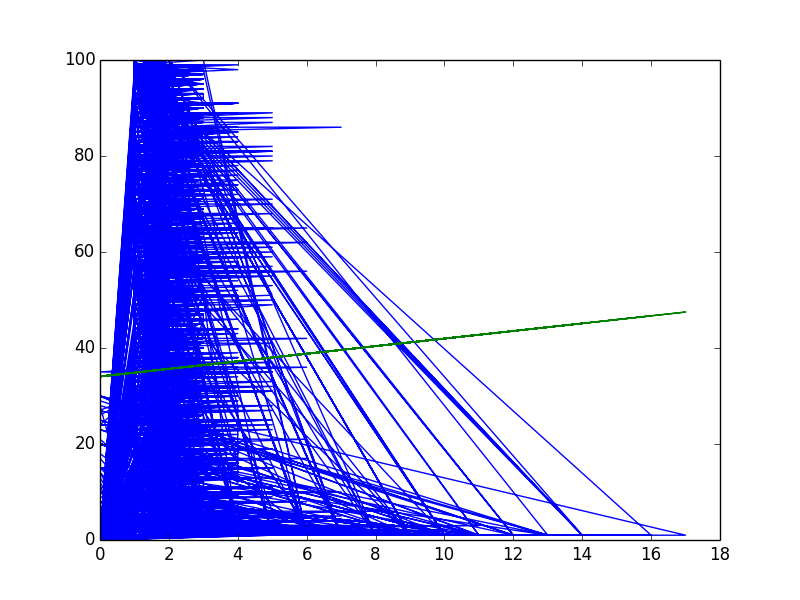
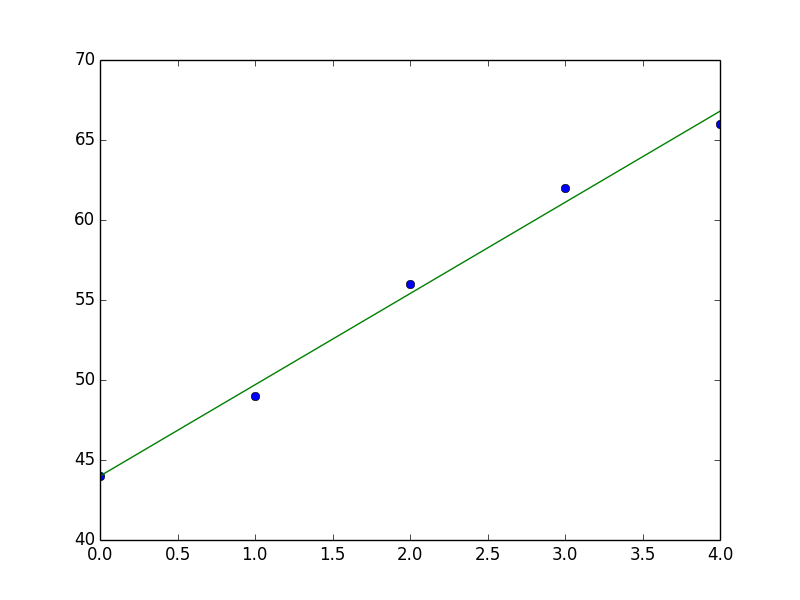
Plotting updates

diff --git a/python/linreg.py b/python/linreg.py
@@ -16,6 +16,9 @@ DATABASE = "music"
 TABLE = "songs"
 # DATABASE = "ratest"
 # TABLE = "R2"
+x_item = 'PK'
+y_item = 'High'
+
 def count(item):
    conn = MySQLdb.connect (host = "localhost",
                            user = "cs126",
@@ -103,12 +106,11 @@ def load(item):
    return out
 
 def plot(X,Y,m, b):
-   x = np.linspace(0,2*np.pi,100)
    Y1 = []
    for x in X:
        Y1.append(m*x+b)
    # Create the plot
-   plt.plot(X,Y)
+   plt.plot(X,Y,'o')
    plt.plot(X,Y1)
    # Save the figure in a separate file
    plt.savefig('linreg.png')
@@ -116,12 +118,28 @@ def plot(X,Y,m, b):
    # Draw the plot to the screen
    plt.show()
     
+def test1():
+   global x_item, y_item, DATABASE, TABLE
+   x_item = 'PK'
+   y_item = 'High'
+   DATABASE = "music"
+   TABLE = "songs"
 
-x_item = 'PK'
-y_item = 'High'
-# x_item = 'K'
-# y_item = 'F'
-[[n, sum_x, sum_y, sum_x2, sum_y2, sum_xy], m, b, r] = linreg(y_item, x_item)
+def test2():
+   global x_item, y_item, DATABASE, TABLE
+   DATABASE = "ratest"
+   TABLE = "R2"
+   x_item = 'K'
+   y_item = 'F'
+
+def runit():
+   global x_item, y_item, DATABASE, TABLE
+   X = load(x_item)
+   Y = load(y_item)
+   [[n, sum_x, sum_y, sum_x2, sum_y2, sum_xy], m, b, r] = linreg(y_item, x_item)   
+   plot(X,Y, m, b)
+
+[[n, sum_x, sum_y, sum_x2, sum_y2, sum_xy], m, b, r] = linreg(y_item, x_item)   
 X = load(x_item)
 Y = load(y_item)
 plot(X,Y, m, b)
